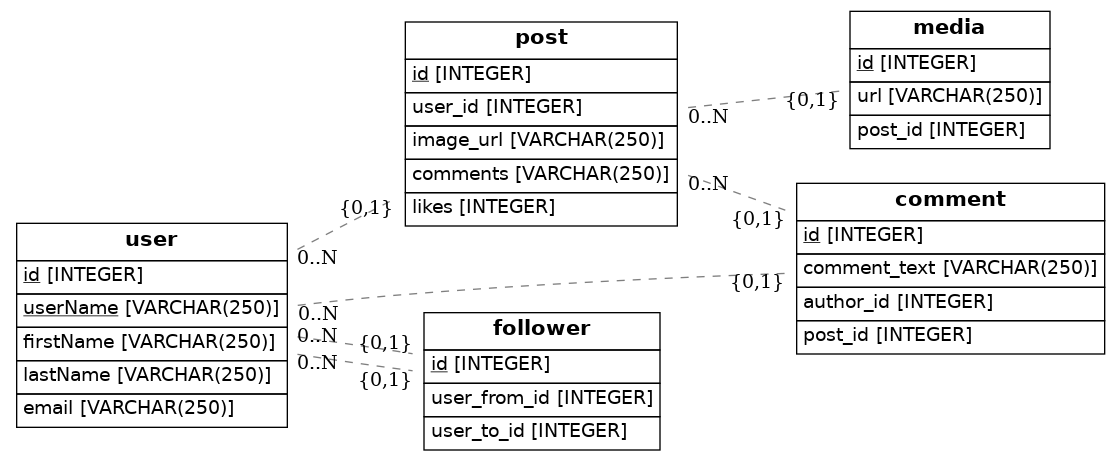
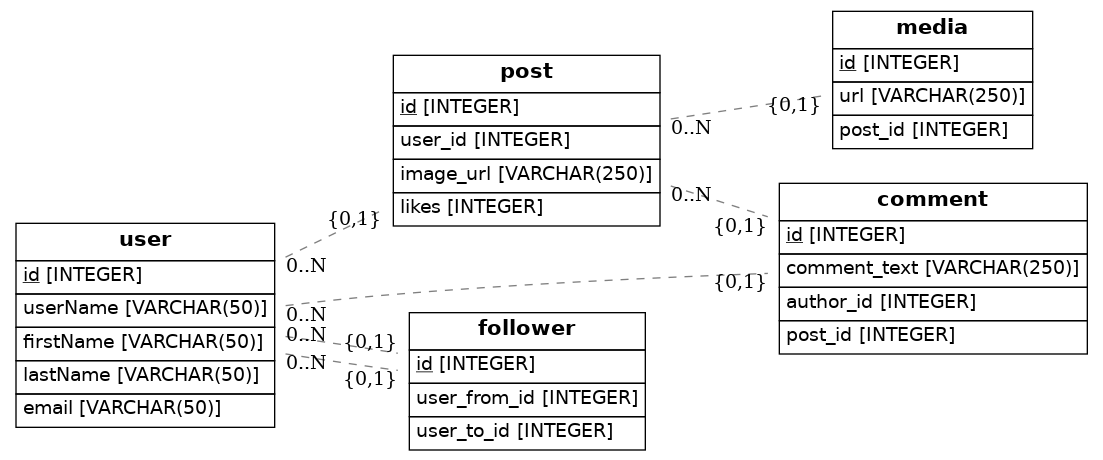
Final exercise

diff --git a/src/models.py b/src/models.py
@@ -9,40 +9,43 @@ from eralchemy import render_er
 Base = declarative_base()
 
 class User(Base):
-    __tablename__ = 'User'
-    id = Column(Integer, primary_key=True)
-    userName = Column(String(250), primary_key=True)
-    firstName = Column(String(250), nullable=False)
-    lastName = Column(String(250), nullable=False)
-    email = Column(String(250), unique=True)
-    
-  
+    __tablename__ = 'user'
+    id = Column(Integer, primary_key = True)
+    userName = Column(String(50), nullable = False)
+    firstName = Column(String(50), nullable = False)
+    lastName = Column(String(50), nullable = False)
+    email = Column(String(50), nullable = False, unique=True)
+
+    followers = relationship('Follower')
+    comments = relationship('Comment')
+    post = relationship('Post')
+
 class Post(Base):
-    __tablename__='Post'
+    __tablename__='post'
     id = Column(Integer, primary_key=True)
     user_id = Column(Integer, ForeignKey('user.id'))
     image_url = Column(String(250))
     comments = Column(String(250))
     likes = Column(Integer)
-    user = relationship(User)
+    media = relationship('Media')
+    comments = relationship('Comment')
 
 class Comment(Base):
-    __tablename__ = 'Comment'
+    __tablename__ = 'comment'
     id = Column(Integer, primary_key=True)
-    comment_text = Column(String(250))
+    comment_text = Column(String(250), nullable = False)
     author_id = Column(Integer, ForeignKey('user.id'))
     post_id = Column(Integer, ForeignKey('post.id'))
-    post = relationship(Post)
 
 
 class Media(Base):
-    __tablename__='Media'
+    __tablename__='media'
     id = Column(Integer, primary_key=True)
-    url = Column(String(250))
+    url = Column(String(250), nullable = False)
     post_id = Column(Integer, ForeignKey('post.id'))
 
 class Follower(Base):
-    __tablename__='Follower'
+    __tablename__='follower'
     id = Column(Integer, primary_key=True)
     user_from_id = Column(Integer, ForeignKey('user.id'))
     user_to_id = Column(Integer, ForeignKey('user.id'))
